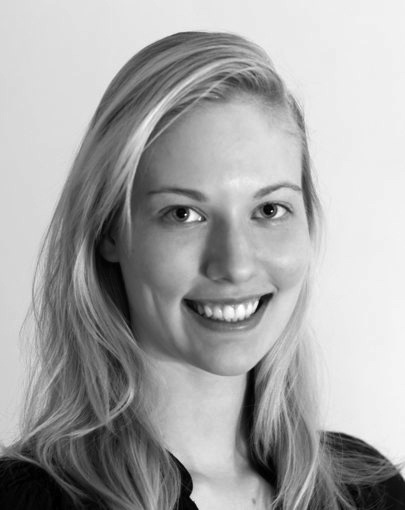
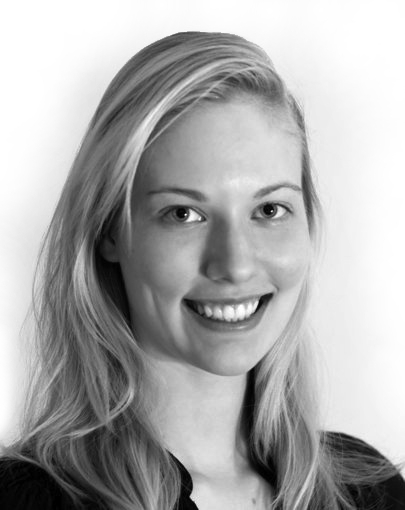
Improved Esthetics

Changed region(s): [[0.0, 0.0, 0.3259, 0.8529], [0.563, 0.0588, 0.6222, 0.0882]]

diff --git a/index.html b/index.html
@@ -112,50 +112,41 @@
             <div style="text-align: justify;">
                 <h2 style="text-align: center;">About</h2>
 
-                <div class="container about-section text-center">
-                    <div id="parent" class="row;" style="text-align: justify; width: 1000px;">
-                        <div id="labels">
-                            <img alt="Photo of Nicole Nova." src="img/nicole-nova.jpg" style="text-align: center; vertical-align: top; width: 300px;"></img>
-                        </div>
-                        <div id="controls" style="vertical-align: center;">
-                            
-                            <h5>Nicole Nova</h5>
-                            <h6>PhD Student in Biology, Stanford University</h6>
-                            <h6>DDS, MSc, BSc in Dental Surgery, Karolinska Institute</h6>
-                            <h4><a href="Files/CV_Nova.pdf">Resume/CV</a></h4>
-                            <p>Nicole Nova is a PhD Student in the Ecology, Evolution and Population Biology track of the Biology PhD Program at Stanford University. Nicole is a member of the Mordecai Lab and she combines mathematical modeling and empirical work to study the ecology and evolution of infectious diseases in wildlife. Nicole is generally interested in research concerning eco-evolutionary dynamics, population genetics, evolutionary game theory, biodiversity, conservation and public health. </p>       
-                        </div>
-                    </div>
-                </div>
-                
+                <img alt="Photo of Nicole Nova." src="img/nicole-nova.jpg" style="width: 400px;" align="left" class="padd"></img>
+
+                <h5>Nicole Nova</h5>
+                <h6>PhD Student in Biology, Stanford University</h6>
+                <h6>DDS, MSc, BSc in Dental Surgery, Karolinska Institute</h6>
+                <h4><a href="Files/CV_Nova.pdf" id="stanford">Resume/CV</a></h4>
+                <p>Nicole Nova is a PhD Student in the Ecology, Evolution and Population Biology track of the Biology PhD Program at Stanford University. Nicole is a member of the Mordecai Lab and she combines mathematical modeling and empirical work to study the ecology and evolution of infectious diseases in wildlife. Nicole is generally interested in research concerning eco-evolutionary dynamics, population genetics, evolutionary game theory, biodiversity, conservation and public health.        
+            
                 <!--br><br>
                 <p> She is particularly interested in questions concerning pathogen-host co-evolution, and pathogen adaptation and transmission to a novel host population (spillover infection).
 
                 My thesis is on the coevolution of host, parasite and vector of the fauna in the <a href="https://en.wikipedia.org/wiki/Gal%C3%A1pagos_Islands">Gal&aacute;pagos Islands</a> in collaboration with the <a href="http://mscg.yale.edu/">Caccone Lab</a> and the <a href="http://vasseurlab.yale.edu/">Vasseur Lab</a>. 
                 <br><br-->
-                <p>
+                
                 Before starting graduate school, Nicole worked as a Research Associate in the <a href="http://sites.duke.edu/koelle/">Koelle Research Group</a> in the <a href="https://biology.duke.edu/">Department of Biology</a> at <a href="http://duke.edu/">Duke University</a>. She formulated a mathematical model to study the development of broadly neutralizing antibodies (BnAbs) in chronic HIV-infections. Understanding the co-evolution between the potent BnAbs and HIV could potentially provide useful insights for developing effective HIV vaccines.
                 <br><br>
 
                 Prior to her position at Duke, she worked in the <a href="http://michorlab.dfci.harvard.edu/">Michor Lab</a> in the Department of Biostatistics and Computational Biology at <a href="http://www.dfhcc.harvard.edu/">Dana-Farber/Harvard Cancer Center</a>  (<a href="http://www.dana-farber.org/">Dana-Farber Cancer Institute</a>, <a href="http://hms.harvard.edu/">Harvard Medical School</a> and <a href="http://www.hsph.harvard.edu/">Harvard T.H. Chan School of Public Health</a>). She was working on mathematical modeling of cancer development and progression using theories from evolutionary dynamics, population genetics and stochastic processes.
                 <br><br>
 
-                In 2012, she earned a Doctor of Dental Surgery (DDS) and a MSc degree from <a href="http://ki.se/en/startpage">Karolinska Institute</a> in Sweden. As an <a href="http://eacea.ec.europa.eu/erasmus_mundus/">Erasmus Mundus</a> scholar, she also studied abroad at <a href="http://www.qmul.ac.uk/">Queen Mary's School of Medicine and Dentistry</a> in London, UK. Nicole completed her Master's thesis in the <a href="http://ki.se/en/fyfa/molecular-pain-research">Molecular Pain Lab</a> in the Department of Physiology and Pharmacology and the Department of Oral Physiology at <a href="http://ki.se/en/startpage">Karolinska Institute</a>. Her thesis was on the pathophysiology of chronic pain in rheumatoid arthritis studied <i>in vivo</i> using a mouse model (more information <a href="Files/master.pdf">here</a>).</p>
-                
-                <div class="container surgery-section text-center">
-                    <br><br><br><br><br><br><br><br><br><br><br><br><br><br><br><br><br><br><br><br><br><br><br><br><br><br><br><br><br>
-                </div>
-                
+                <img alt="Photo of Nicole Nova." src="img/surgery.jpg" style="width: 350px;" align="right" class="padd-surgery"></img>
+
+                In 2012, she earned a Doctor of Dental Surgery (DDS) and a MSc degree from <a href="http://ki.se/en/startpage">Karolinska Institute</a> in Sweden. As an <a href="http://eacea.ec.europa.eu/erasmus_mundus/">Erasmus Mundus</a> scholar, she also studied abroad at <a href="http://www.qmul.ac.uk/">Queen Mary's School of Medicine and Dentistry</a> in London, UK. Nicole completed her Master's thesis in the <a href="http://ki.se/en/fyfa/molecular-pain-research">Molecular Pain Lab</a> in the Department of Physiology and Pharmacology and the Department of Oral Physiology at <a href="http://ki.se/en/startpage">Karolinska Institute</a>. Her thesis was on the pathophysiology of chronic pain in rheumatoid arthritis studied <i>in vivo</i> using a mouse model (more information <a href="Files/master.pdf">here</a>).
                 <br><br>
-                <p> In addition, Nicole completed a clinical internship in the Department of Head and Neck Surgery at the <a href="http://www.meduniwien.ac.at/homepage/1/homepage/">Medical University of Vienna</a> in Austria. She worked on several head and neck cancer cases and became interested in the evolution of cancer on a cell population level. That spark of interest led her to the field of evolutionary medicine, and eventually to the broader field of ecology and evolutionary biology.
+
+                In addition, Nicole completed a clinical internship in the Department of Head and Neck Surgery at the <a href="http://www.meduniwien.ac.at/homepage/1/homepage/">Medical University of Vienna</a> in Austria. She worked on several head and neck cancer cases and became interested in the evolution of cancer on a cell population level. That spark of interest led her to the field of evolutionary medicine, and eventually to the broader field of ecology and evolutionary biology.
                 <br><br>
 
                 During her years of clinical work and biomedical research, she became fascinated by mathematical biology and how one could build mathematical models to run <i>in silico</i> experiments (computer simulations), which could replace some time-consuming and/or expensive empirical studies. Realizing the value of a solid applied mathematical background for studying ecology and evolution in general, she obtained her quantitative foundation by studying Electrical Engineering at the <a href="http://www.kth.se/en">Royal Institute of Technology</a> in Sweden (below is a video of a robot that she and a team of engineering students built using Segway technology).
                 </p>
                 <div style="text-align: center;">
-                    <iframe width="480" height="360" src="http://www.youtube.com/embed/hQ1b9MYlXF0?rel=0" frameborder="0" allowfullscreen></iframe>
+                    <iframe width="480" height="300" src="http://www.youtube.com/embed/hQ1b9MYlXF0?rel=0" frameborder="0" allowfullscreen></iframe>
                 </div>
-                <br><br><br><br>
+                <br><br>
+                
             </div>
         </div>
     </section>
@@ -172,16 +163,41 @@
                     <a href="http://startbootstrap.com/template-overviews/grayscale/" class="btn btn-default btn-lg">Visit Page</a>
                     <br><br-->
                     <h4>Publications</h4>
-                    <p>Nova N, Koelle K. Modeling the development of neutralizing antibody breadth in chronic-stage HIV infection. [In preparation]
+                    <p>Nova N, Koelle K. Virological and immunological factors impacting the development of antibody breadth during HIV infection. [Manuscript in preparation]
                     <br><br>
-                    Nova N, Ashcroft P, Iwasa Y, Michor F. Stochastic tunneling of three mutations in a population of cancer cells. [In preparation]
+                    Nova N, Ashcroft P, Iwasa Y, Michor F. Stochastic tunneling of three mutations in a population of cancer cells. [Manuscript in preparation]
                     <br><br>
                     Nova N, Alstergren P, Svensson C. Chronic inflammation and pain – assessment of c-Fos and ATF-3 as markers of spinal neuronal activity in a pain model of rheumatoid arthritis. Master’s thesis, Karolinska Institute, June 2012. Access: <a href="edu.ofa.ki.se/examensarbete/detail.asp?Id=343">edu.ofa.ki.se/examensarbete/detail.asp?Id=343</a>
                     <br><br>
-                    Van Wert M, Nova N, Horowitz T, Wolfe J. What does performance on one visual search task tell you about performance on another? Journal of Vision. 2008;8(6):312.
+                    Van Wert M, Nova N, Horowitz T, Wolfe J. What does performance on one visual search task tell you about performance on another? Journal of Vision. 2008;8(6):312.</p>
                     <br><br>
-                    <!--Nova N, Robertson K. Activation of Liver X Receptor affects the function and differentiation of osteoclasts. Summer Research Project, Karolinska Institutet, June-Aug 2006. [<a href="Files/LXR.pdf">PDF</a>]-->
-                    </p>
+                    <br><br> 
+                    <h4>Invited Talks</h4>
+                    <p><i>Mathematical Modeling in the Biosciences</i>, 30th Jubilee Symposium of Research Program in Biomedicine, Stockholm, Sweden. June 2015.
+                    <br><br>
+                    <i>Mathematical Modeling of Cancer and Infectious Diseases</i> NSF REU research program in Mathematical Biology, University of North Carolina at Greensboro (UNCG), Greensboro, NC. June 2015.</p>
+                    <br><br>
+                    <br><br>
+                    <h4>Poster Presentations</h4> 
+                    <p>Nova N, Koelle K. Virological and immunological factors impacting the development of antibody breadth during HIV infection. Triangle Center for Evolutionary Medicine Symposium. November 2015, The Solution Center in Research Triangle Park, Durham, NC.
+                    <br><br>
+                    Mideus G, Nova N, Härenstam-Nielsen L, Enqvist A, Tomaszuk M, Rojas C. Autonomous Robot Accomplishing Standstill Balance and Forward Motion Using Segway Technology. Annual Electrical Engineering Symposium. May 2013, Royal Institute of Technology, Stockholm, Sweden.
+                    <br><br>
+                    Nova N, Bas D, Svensson K. Assessment of c-Fos as a marker of spinal neuronal activity in a pain model of rheumatoid arthritis. Medical Sciences Symposium, August 2010, Karolinska Institutet, Stockholm, Sweden.
+                    <br><br>
+                    Nova N, Robertson K. Activation of Liver X Receptor affects the function and differentiation of osteoclasts. Biomedical Sciences Symposium, August 2006, Karolinska Institutet, Stockholm, Sweden. </p>
+                    <br><br>
+                    <br><br>
+                    <br><br>
+                    <br><br>
+                    <br><br>
+                    <br><br>
+                    <br><br>
+                    <br><br>
+                    <br><br>
+                    <br><br>
+                    <br><br>
+                    <br><br>
                 </div>
             </div>  
         </div>  
@@ -254,7 +270,7 @@
                                     <p><b>Email</b></p>
                                 </td>
                                 <td style="width: 300px; vertical-align: top;">
-                                    <p><a href="mailto:nicole.nova@stanford.edu">nicole.nova@stanford.edu</a></p>
+                                    <p><a href="mailto:nicole.nova@stanford.edu" id="stanford"><b>nicole.nova@stanford.edu</b></a></p>
                                 </td>
                             </tr>
                             <tr>
@@ -304,7 +320,7 @@
                                 </td>
                                 <td style="width: 300px; vertical-align: top;">
                                     <p>
-                                        <a href="http://nicolenova.com/">nicolenova.com</a></p>
+                                        <a href="http://nicolenova.com/" id="stanford"><b>nicolenova.com</b></a></p>
                                 </td>
                             </tr>
                         </tbody>
@@ -317,13 +333,16 @@
                         <a href="https://github.com/novanator" class="btn btn-default btn-lg"><i class="fa fa-github fa-fw"></i> <span class="network-name"></span></a>
                     </li>
                 </ul>
-                <br><br>
             </div>
         </div>
     </section>
 
     <!-- Map Section -->
     <!--div id="map"></div-->
+
+    <div class="container footer-bg-section text-center">
+                    <br><br><br><br><br><br><br><br><br><br><br><br><br><br><br><br><br><br><br><br><br><br><br><br><br><br><br><br><br>
+                </div>
 
     <!-- Footer -->
     

diff --git a/css/grayscale.css b/css/grayscale.css
@@ -82,6 +82,22 @@ a:focus {
     color: #4db8ff;
 }
 
+#stanford {
+    color: #8C1515;
+    -webkit-transition: all .2s ease-in-out;
+    -moz-transition: all .2s ease-in-out;
+    transition: all .2s ease-in-out;
+}
+
+#stanford:hover,
+#stanford:focus {
+    text-decoration: none;
+    color: #CC2121;
+}
+
+
+
+
 .light {
     font-weight: 400;
 }
@@ -286,6 +302,20 @@ a:focus {
     padding-top: 100px;
 }
 
+.padd {
+    padding-top: 0px;
+    padding-right: 40px;
+    padding-bottom: 10px;
+    padding-left: 0px;
+}
+
+.padd-surgery {
+    padding-top: 0px;
+    padding-right: 0px;
+    padding-bottom: 10px;
+    padding-left: 40px;
+}
+
 .about-section {
     width: 100%;
     padding: 0px 0;
@@ -313,8 +343,32 @@ a:focus {
 .research-section {
     width: 100%;
     padding: 50px;
-    color: #fff;
+    color: #000;
     background: url(../img/research-bg.jpg) no-repeat center center scroll;
+    background-color: #fff;
+    -webkit-background-size: cover;
+    -moz-background-size: cover;
+    background-size: cover;
+    -o-background-size: cover;
+}
+
+.contact-section {
+    width: 100%;
+    padding: 50px;
+    color: #000;
+    background: url(../img/contact-bg.jpg) no-repeat center center scroll;
+    background-color: #fff;
+    -webkit-background-size: cover;
+    -moz-background-size: cover;
+    background-size: cover;
+    -o-background-size: cover;
+}
+
+.footer-bg-section {
+    width: 100%;
+    padding: 0px 0;
+    color: #fff;
+    background: url(../img/footer-bg.jpg) no-repeat top center scroll;
     background-color: #000;
     -webkit-background-size: cover;
     -moz-background-size: cover;
@@ -356,7 +410,7 @@ a:focus {
     }
 
     .footer-section {
-        padding: 50px 0;
+        padding: 15px 0;
     }
 
     /*!#map {
@@ -375,7 +429,7 @@ a:focus {
     transition: all .3s ease-in-out;
 }
 
-.btn-default {
+/*!.btn-default {
     border: 1px solid #007acc;
     color: #007acc;
     background-color: transparent;
@@ -387,6 +441,21 @@ a:focus {
     outline: 0;
     color: #000;
     background-color: #007acc;
+}
+*/
+
+.btn-default {
+    border: 1px solid #8C1515;
+    color: #8C1515;
+    background-color: transparent;
+}
+
+.btn-default:hover,
+.btn-default:focus {
+    border: 1px solid #8C1515;
+    outline: 0;
+    color: #fff;
+    background-color: #8C1515;
 }
 
 ul.banner-social-buttons {
